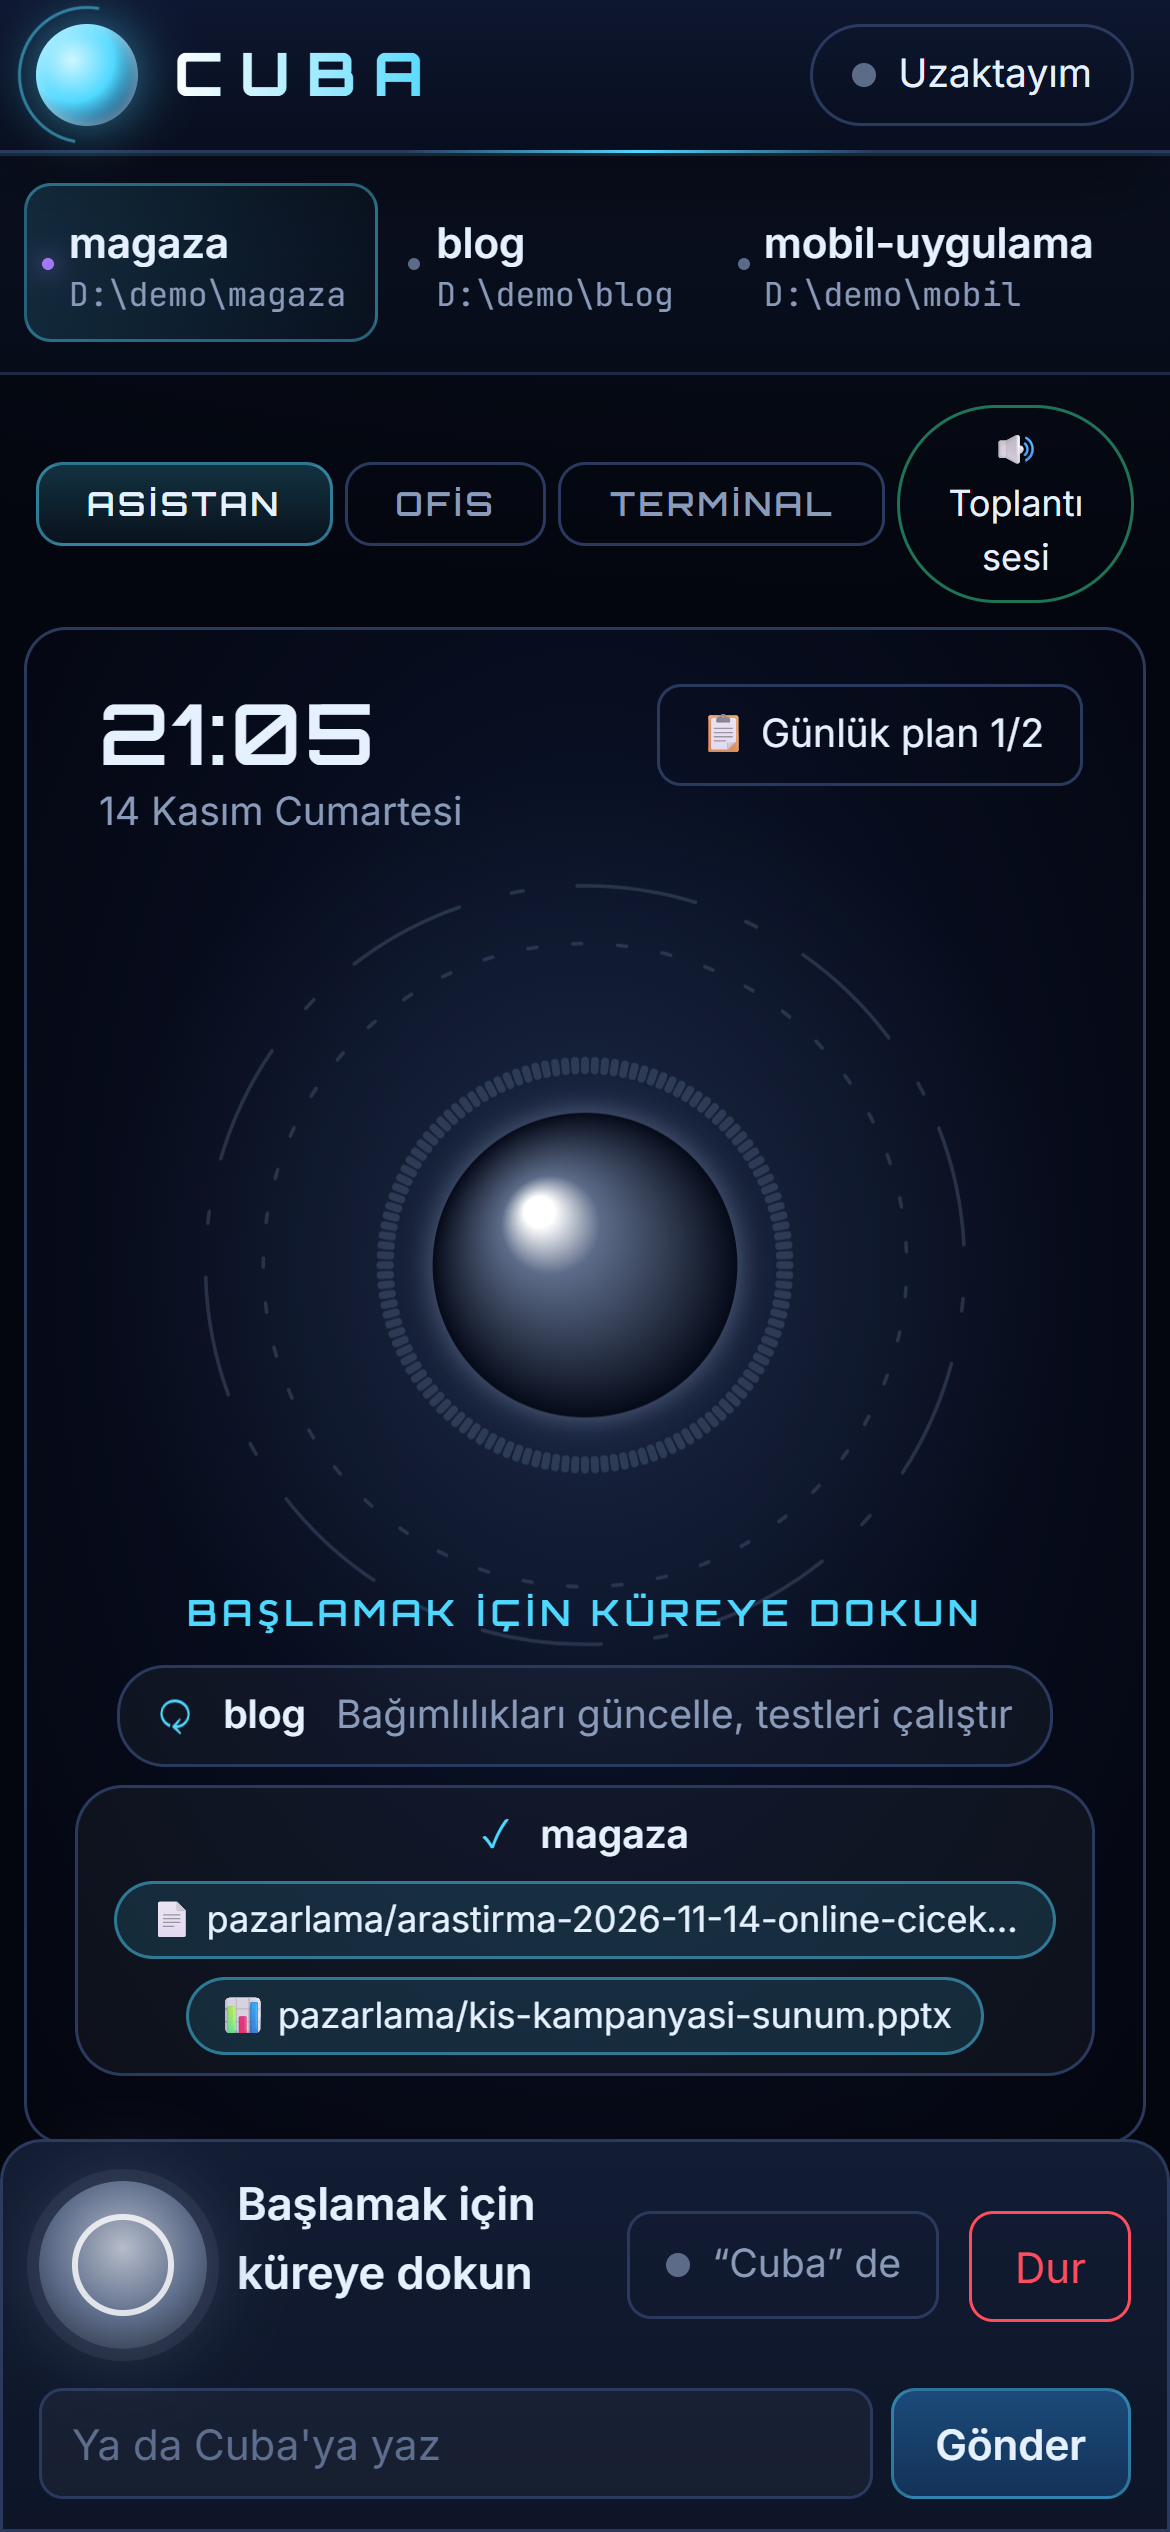
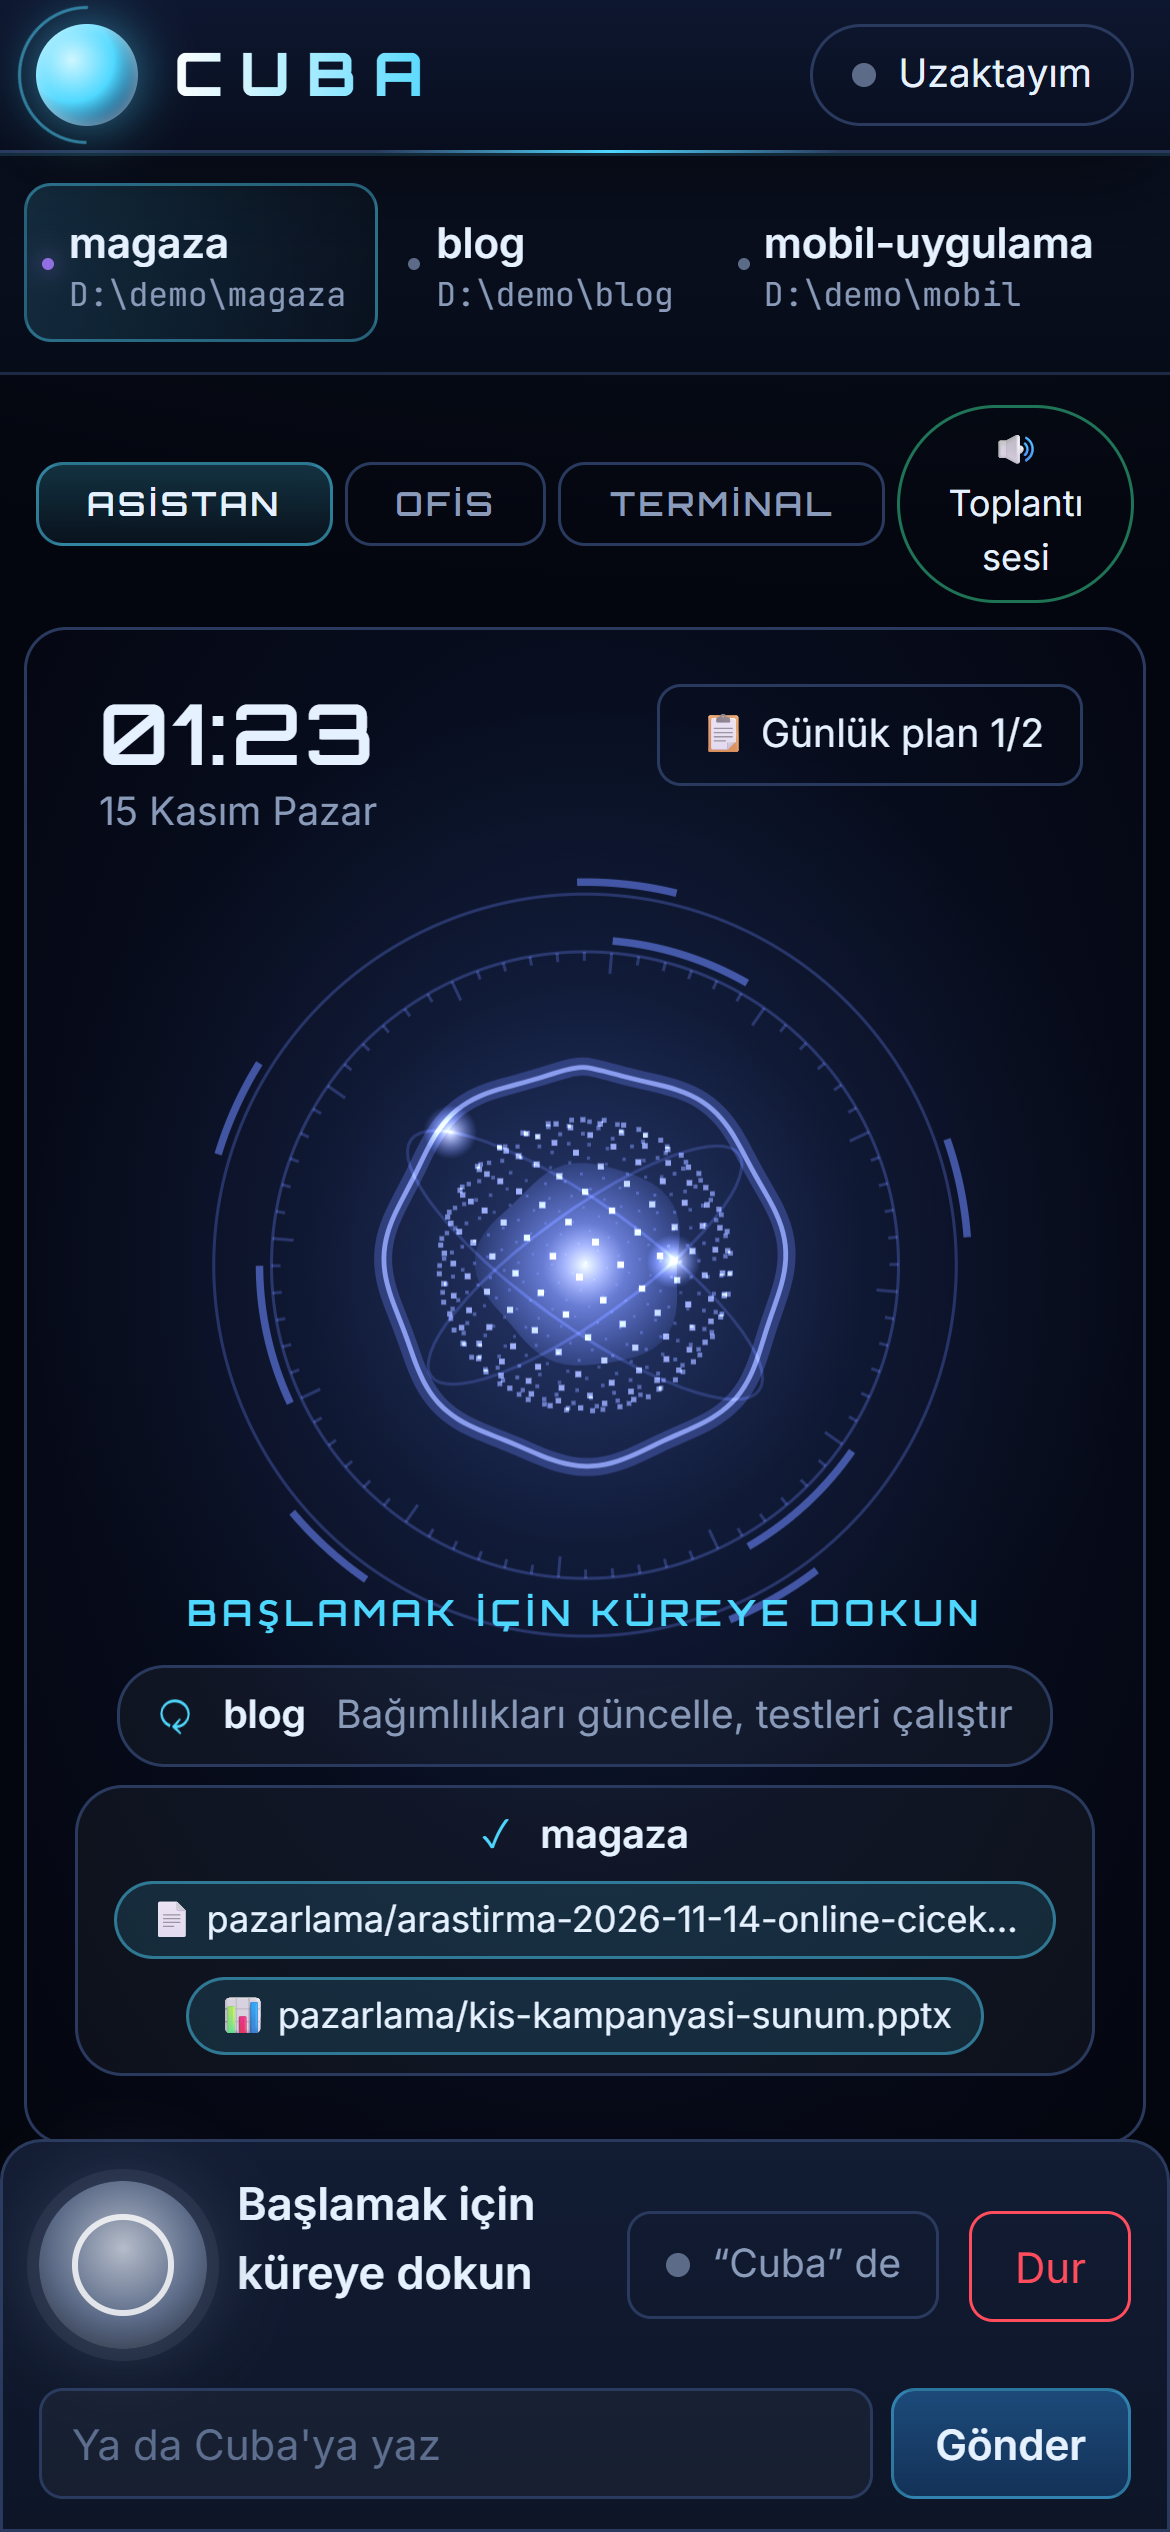
Assistant orb: 3D particle sphere, plasma core, tilted orbits, smooth voice wave, gliding state colours

diff --git a/web/app.js b/web/app.js
@@ -1572,10 +1572,11 @@ setInterval(loadPlan, 120_000); // Cuba writes the plan too
 
 // ── Assistant view: the orb, its ripples, the plan when the talk turns to it ──
 
-const VOICE_COLORS = { idle: '#5C6B88', listening: '#4FD8FF', working: '#A77BFF', speaking: '#39E09B', error: '#FF4D5E' };
+const VOICE_COLORS = { idle: '#6C86FF', listening: '#4FD8FF', working: '#A77BFF', speaking: '#39E09B', error: '#FF4D5E' };
 // Talk about the day's work opens the plan beside the orb.
 const PLAN_TALK = /plan|görev|yapılacak|yapacağım|todo|to-do|ajanda|iş listesi|bugün ne/i;
-const viz = { frame: 0, bins: new Uint8Array(64), level: new Float32Array(64), waves: [], waveAt: 0, said: '', clock: '' };
+const viz = { frame: 0, bins: new Uint8Array(64), level: new Float32Array(64), waves: [], waveAt: 0, said: '', clock: '',
+  rgb: [108, 134, 255], spin: 0, breath: 0, sphere: [] };
 const calmMotion = matchMedia('(prefers-reduced-motion: reduce)');
 
 function showAsstPlan(open) {
@@ -1730,81 +1731,173 @@ function drawAssistant(time) {
   }
   const loud = sum / 64;
 
-  // A glow behind everything, brighter as the voice gets louder.
-  const glow = ctx.createRadialGradient(cx, cy, r * .5, cx, cy, r * 3);
-  glow.addColorStop(0, `${color}${Math.round(40 + loud * 120).toString(16).padStart(2, '0')}`);
-  glow.addColorStop(1, `${color}00`);
+  // The colour glides to the new state's instead of jumping.
+  const want = hexRgb(color);
+  for (let i = 0; i < 3; i += 1) viz.rgb[i] += (want[i] - viz.rgb[i]) * (still ? 1 : .06);
+  const rgba = (a, lift = 0) => `rgba(${viz.rgb.map((c) => Math.round(c + (255 - c) * lift)).join(',')},${a})`;
+  const working = voiceState === 'working';
+  viz.spin += still ? 0 : (working ? .022 : .004) + loud * .03;
+  viz.breath = still ? 0 : Math.sin(time / 1400);
+
+  // A deep glow behind everything, brighter as the voice gets louder.
+  const glow = ctx.createRadialGradient(cx, cy, r * .3, cx, cy, r * 3.4);
+  glow.addColorStop(0, rgba(.22 + loud * .5));
+  glow.addColorStop(.45, rgba(.06 + loud * .12));
+  glow.addColorStop(1, rgba(0));
   ctx.fillStyle = glow;
   ctx.fillRect(0, 0, box.width, box.height);
+  ctx.globalCompositeOperation = 'lighter';
 
   // Ripples leave the orb on loud moments.
-  if (!still && loud > .18 && time - viz.waveAt > 240) { viz.waves.push({ r: r * 1.05, a: .7 }); viz.waveAt = time; }
+  if (!still && loud > .18 && time - viz.waveAt > 260) { viz.waves.push({ r: r * 1.1, a: .55 }); viz.waveAt = time; }
   viz.waves = viz.waves.filter((w) => w.a > 0);
   for (const w of viz.waves) {
-    w.r += 1.8;
-    w.a -= .009;
+    w.r += 1.6 + w.a * 2;
+    w.a -= .008;
     ctx.beginPath();
     ctx.arc(cx, cy, w.r, 0, Math.PI * 2);
-    ctx.strokeStyle = color;
-    ctx.globalAlpha = Math.max(0, w.a);
-    ctx.lineWidth = 2;
+    ctx.strokeStyle = rgba(Math.max(0, w.a));
+    ctx.lineWidth = 1.5;
     ctx.stroke();
   }
-  ctx.globalAlpha = 1;
 
-  // Bars around the orb, mirrored left and right.
-  ctx.lineCap = 'round';
-  for (let k = 0; k < 128; k += 1) {
-    const v = viz.level[k < 64 ? k : 127 - k];
-    const angle = (k / 128) * Math.PI * 2 - Math.PI / 2;
-    const [from, to] = [r + 10, r + 12 + v * r * 1.1];
-    ctx.beginPath();
-    ctx.moveTo(cx + Math.cos(angle) * from, cy + Math.sin(angle) * from);
-    ctx.lineTo(cx + Math.cos(angle) * to, cy + Math.sin(angle) * to);
-    ctx.strokeStyle = color;
-    ctx.globalAlpha = .35 + v * .65;
-    ctx.lineWidth = 2.6;
-    ctx.stroke();
-  }
-  ctx.globalAlpha = 1;
-
-  // Slow HUD rings, one each way.
-  for (const [radius, speed, dash] of [[r * 1.95, 1, [3, 12]], [r * 2.3, -.6, [40, 18, 4, 18]]]) {
+  // HUD rings with ticks and arcs, turning slowly each way.
+  for (const [radius, speed, ticks, arcs] of [[r * 1.9, 1, 72, 3], [r * 2.25, -.55, 0, 5]]) {
     ctx.save();
     ctx.translate(cx, cy);
     ctx.rotate(still ? 0 : time / 9000 * speed);
-    ctx.setLineDash(dash);
+    ctx.lineWidth = 1;
+    ctx.strokeStyle = rgba(.28);
     ctx.beginPath();
     ctx.arc(0, 0, radius, 0, Math.PI * 2);
-    ctx.strokeStyle = color;
-    ctx.globalAlpha = .35;
-    ctx.lineWidth = 1.2;
     ctx.stroke();
+    for (let t = 0; t < ticks; t += 1) {
+      const a = t / ticks * Math.PI * 2;
+      const long = t % 6 === 0 ? 7 : 3;
+      ctx.beginPath();
+      ctx.moveTo(Math.cos(a) * radius, Math.sin(a) * radius);
+      ctx.lineTo(Math.cos(a) * (radius - long), Math.sin(a) * (radius - long));
+      ctx.stroke();
+    }
+    ctx.lineWidth = 2.5;
+    ctx.strokeStyle = rgba(.55);
+    for (let s = 0; s < arcs; s += 1) {
+      const a = s / arcs * Math.PI * 2;
+      ctx.beginPath();
+      ctx.arc(0, 0, radius + 4, a, a + Math.PI / (arcs * 2.4));
+      ctx.stroke();
+    }
     ctx.restore();
   }
 
-  // The orb itself, swelling a little with the voice.
-  const size = r * (.92 + loud * .18);
-  const sphere = ctx.createRadialGradient(cx - size * .3, cy - size * .35, size * .1, cx, cy, size);
-  sphere.addColorStop(0, '#FFFFFF');
-  sphere.addColorStop(.25, color);
-  sphere.addColorStop(1, '#050A18');
-  ctx.beginPath();
-  ctx.arc(cx, cy, size, 0, Math.PI * 2);
-  ctx.fillStyle = sphere;
-  ctx.shadowColor = color;
-  ctx.shadowBlur = 30 + loud * 60;
-  ctx.fill();
-  ctx.shadowBlur = 0;
-  if (voiceState === 'working' && !still) {
+  // The voice as a smooth closed wave around the sphere, mirrored left and right.
+  const wave = (scale, lift, alpha, width) => {
+    const pts = [];
+    for (let k = 0; k < 96; k += 1) {
+      const v = viz.level[Math.floor((k < 48 ? k : 95 - k) * 63 / 47)];
+      const angle = k / 96 * Math.PI * 2 - Math.PI / 2;
+      const d = r * 1.18 + v * r * scale + Math.sin(time / 600 + k * .5) * (still ? 0 : 1.5);
+      pts.push([cx + Math.cos(angle) * d, cy + Math.sin(angle) * d]);
+    }
     ctx.beginPath();
-    ctx.arc(cx, cy, size + 5, time / 300, time / 300 + Math.PI * 1.2);
-    ctx.strokeStyle = '#FFFFFF';
+    for (let k = 0; k <= 96; k += 1) {
+      const [a, b] = [pts[k % 96], pts[(k + 1) % 96]];
+      const mid = [(a[0] + b[0]) / 2, (a[1] + b[1]) / 2];
+      if (k === 0) ctx.moveTo(...mid); else ctx.quadraticCurveTo(a[0], a[1], mid[0], mid[1]);
+    }
+    ctx.strokeStyle = rgba(alpha, lift);
+    ctx.lineWidth = width;
+    ctx.stroke();
+  };
+  wave(.95, 0, .25 + loud, 6);
+  wave(.7, .5, .5 + loud, 1.6);
+
+  // Two tilted orbits, each with a bright moon travelling along it.
+  for (const [tilt, speed, width] of [[.35, 1, 1.3], [-.9, -1.4, 1.15]]) {
+    ctx.save();
+    ctx.translate(cx, cy);
+    ctx.rotate(tilt + (still ? 0 : time / 20000));
+    ctx.scale(1, .28);
+    ctx.beginPath();
+    ctx.arc(0, 0, r * width, 0, Math.PI * 2);
+    ctx.restore();
+    ctx.strokeStyle = rgba(.22);
+    ctx.lineWidth = 1;
+    ctx.stroke();
+    const a = still ? 0 : time / 1500 * speed;
+    const [ox, oy] = [Math.cos(a) * r * width, Math.sin(a) * r * width * .28];
+    const [rx, ry] = [ox * Math.cos(tilt + time / 20000) - oy * Math.sin(tilt + time / 20000),
+      ox * Math.sin(tilt + time / 20000) + oy * Math.cos(tilt + time / 20000)];
+    const moon = ctx.createRadialGradient(cx + rx, cy + ry, 0, cx + rx, cy + ry, 9);
+    moon.addColorStop(0, rgba(1, .8));
+    moon.addColorStop(1, rgba(0));
+    ctx.fillStyle = moon;
+    ctx.fillRect(cx + rx - 9, cy + ry - 9, 18, 18);
+  }
+
+  // The plasma core: a soft blob whose edge wobbles with the voice.
+  const size = r * (.62 + loud * .22 + viz.breath * .02);
+  ctx.beginPath();
+  for (let k = 0; k <= 64; k += 1) {
+    const a = k / 64 * Math.PI * 2;
+    const wobble = Math.sin(a * 3 + time / 500) * .05 + Math.sin(a * 5 - time / 380) * .04 * (1 + loud * 4)
+      + viz.level[k % 64] * .25;
+    const d = size * (1 + (still ? 0 : wobble));
+    if (k === 0) ctx.moveTo(cx + Math.cos(a) * d, cy + Math.sin(a) * d); else ctx.lineTo(cx + Math.cos(a) * d, cy + Math.sin(a) * d);
+  }
+  const core = ctx.createRadialGradient(cx, cy, 0, cx, cy, size * 1.2);
+  core.addColorStop(0, rgba(.95, .85));
+  core.addColorStop(.35, rgba(.55, .2));
+  core.addColorStop(1, rgba(.05));
+  ctx.fillStyle = core;
+  ctx.fill();
+
+  // A sphere of points turning in 3D around the core, pushed outward by the voice.
+  const n = viz.sphere.length;
+  for (let i = 0; i < n; i += 1) {
+    const [x0, y0, z0] = viz.sphere[i];
+    const band = viz.level[Math.floor((y0 + 1) / 2 * 63)];
+    const push = r * (.96 + band * .5 + (working ? Math.sin(time / 200 + i) * .03 : 0));
+    const [cs, sn] = [Math.cos(viz.spin), Math.sin(viz.spin)];
+    const x = x0 * cs - z0 * sn;
+    const z = x0 * sn + z0 * cs;
+    const [ct, st] = [Math.cos(.35), Math.sin(.35)];
+    const y = y0 * ct - z * st;
+    const zz = y0 * st + z * ct;
+    const depth = (zz + 1) / 2;  // 0 at the back, 1 at the front
+    const scale = 1 / (1.8 - zz * .6);
+    ctx.fillStyle = rgba(.12 + depth * .75, depth * .5);
+    const dot = .6 + depth * 1.5 + band * 1.5;
+    ctx.fillRect(cx + x * push * scale * 1.55 - dot / 2, cy + y * push * scale * 1.55 - dot / 2, dot, dot);
+  }
+
+  // While Cuba works, a bright arc sweeps around the sphere.
+  if (working && !still) {
+    ctx.beginPath();
+    ctx.arc(cx, cy, r * 1.08, time / 260, time / 260 + Math.PI * .9);
+    ctx.strokeStyle = rgba(.9, .6);
     ctx.lineWidth = 2.5;
     ctx.stroke();
   }
+  ctx.globalCompositeOperation = 'source-over';
 }
 
+/** "#4FD8FF" → [79, 216, 255] */
+function hexRgb(hex) {
+  return [1, 3, 5].map((i) => parseInt(hex.slice(i, i + 2), 16));
+}
+
+/** *n* points spread evenly over a unit sphere (a Fibonacci lattice). */
+function spherePoints(n) {
+  const golden = Math.PI * (3 - Math.sqrt(5));
+  return Array.from({ length: n }, (_, i) => {
+    const y = 1 - (i + .5) / n * 2;
+    const ring = Math.sqrt(1 - y * y);
+    return [Math.cos(i * golden) * ring, y, Math.sin(i * golden) * ring];
+  });
+}
+
+viz.sphere = spherePoints(420);
 setState('idle');
 showMode('assistant');
 connect();
